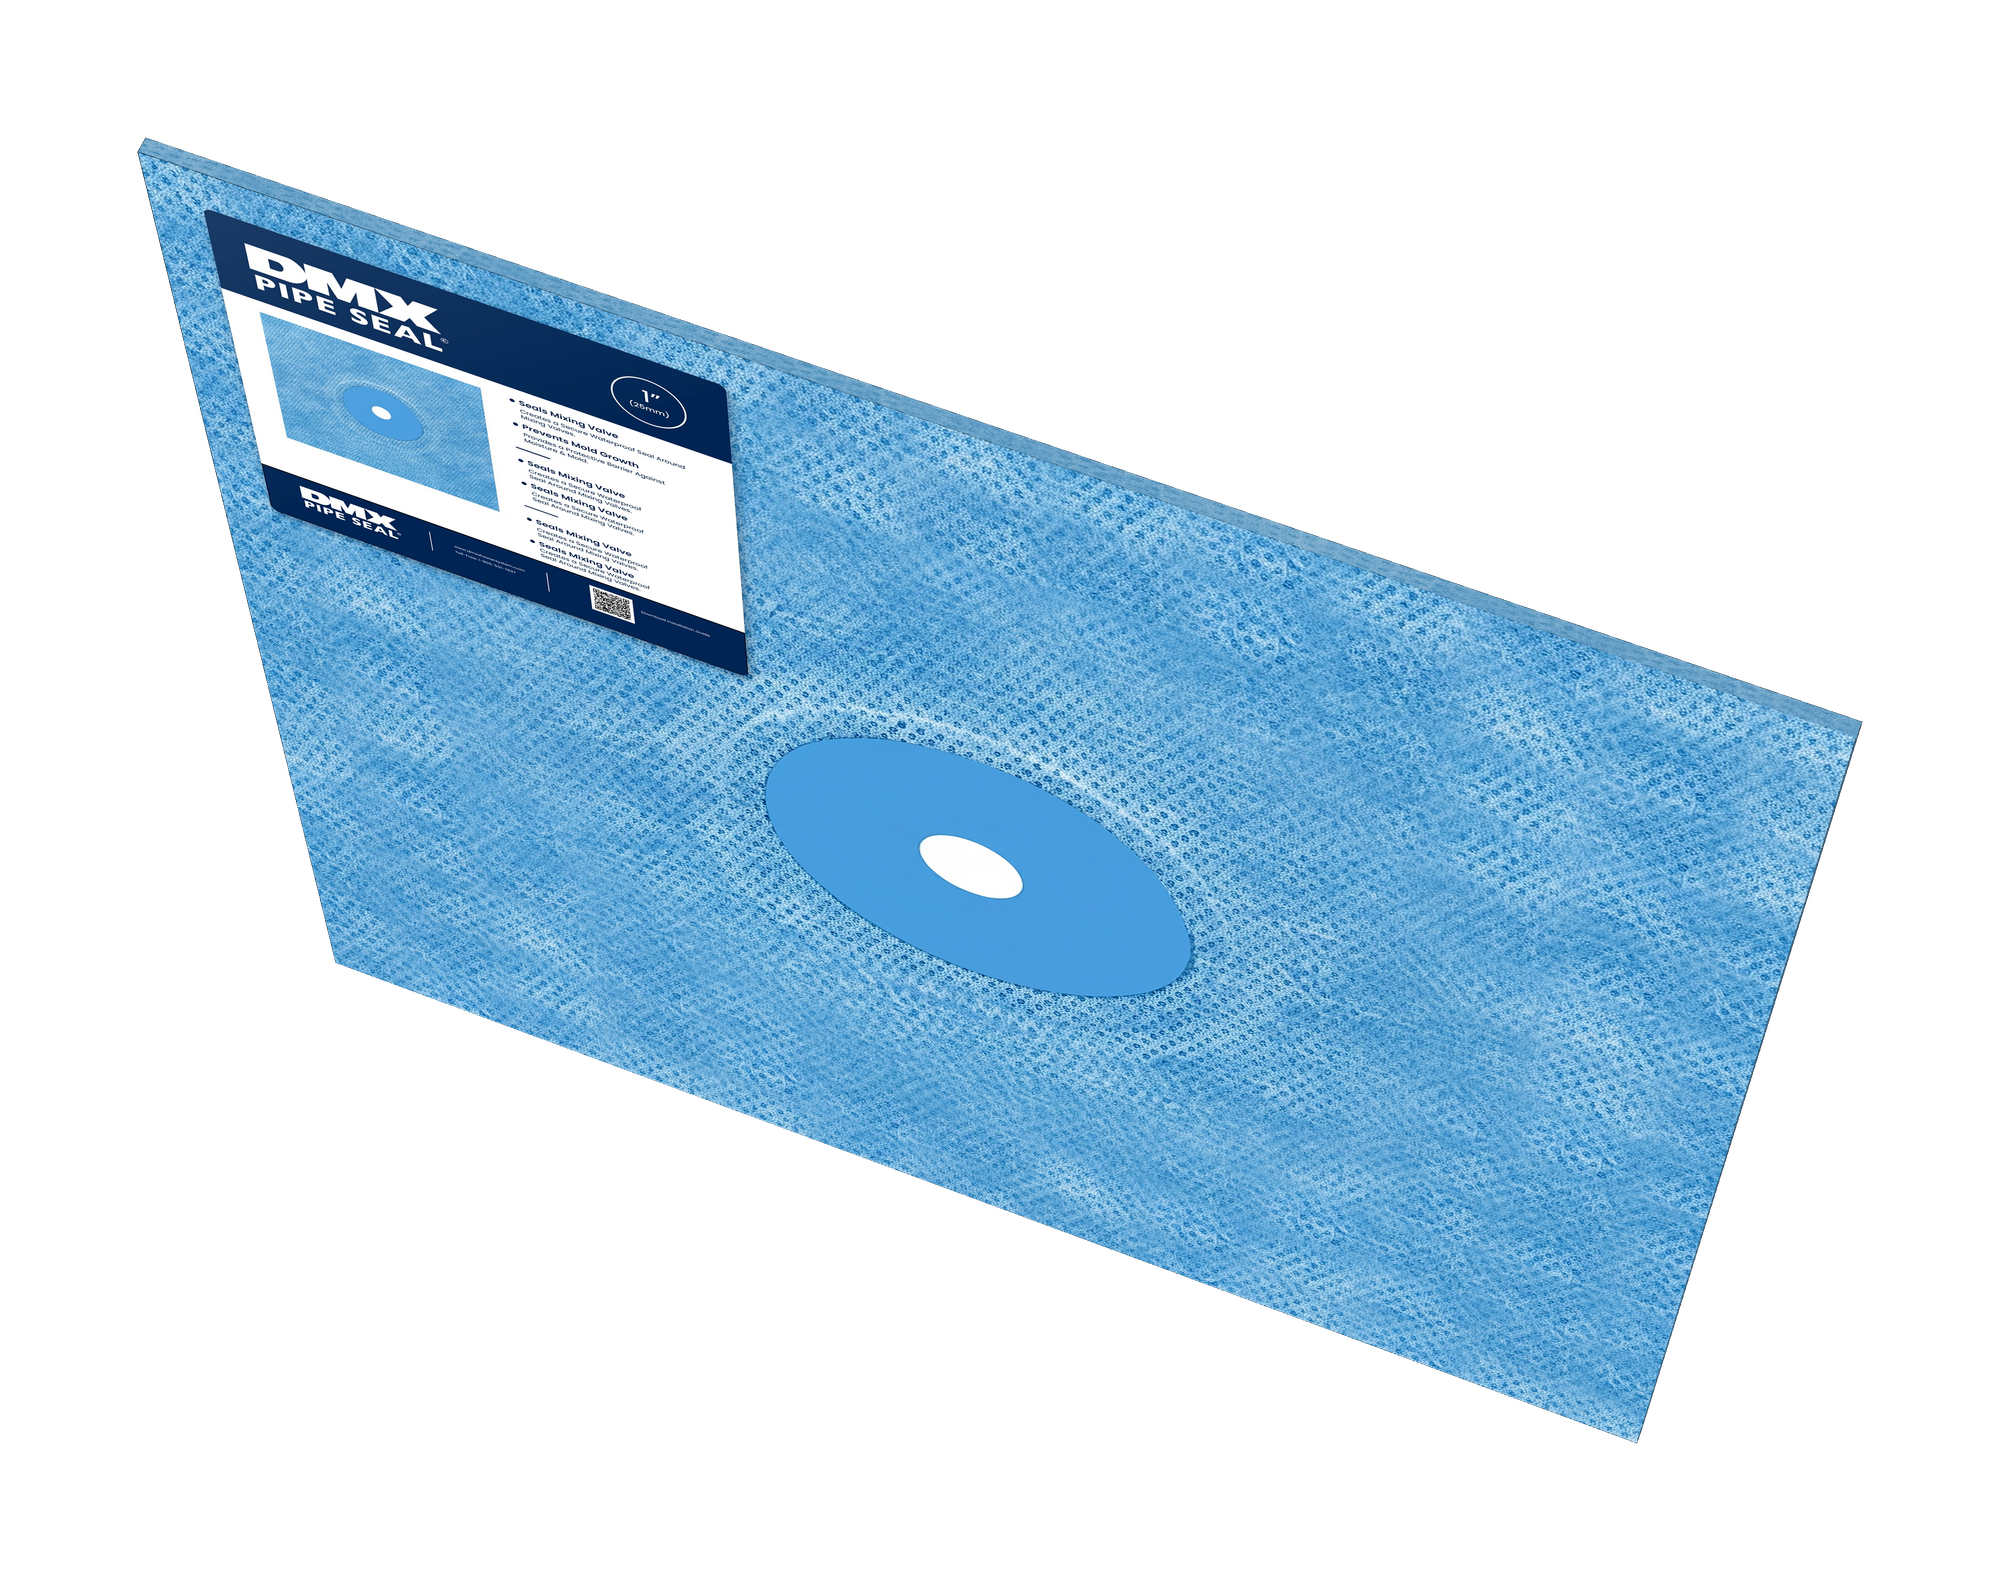
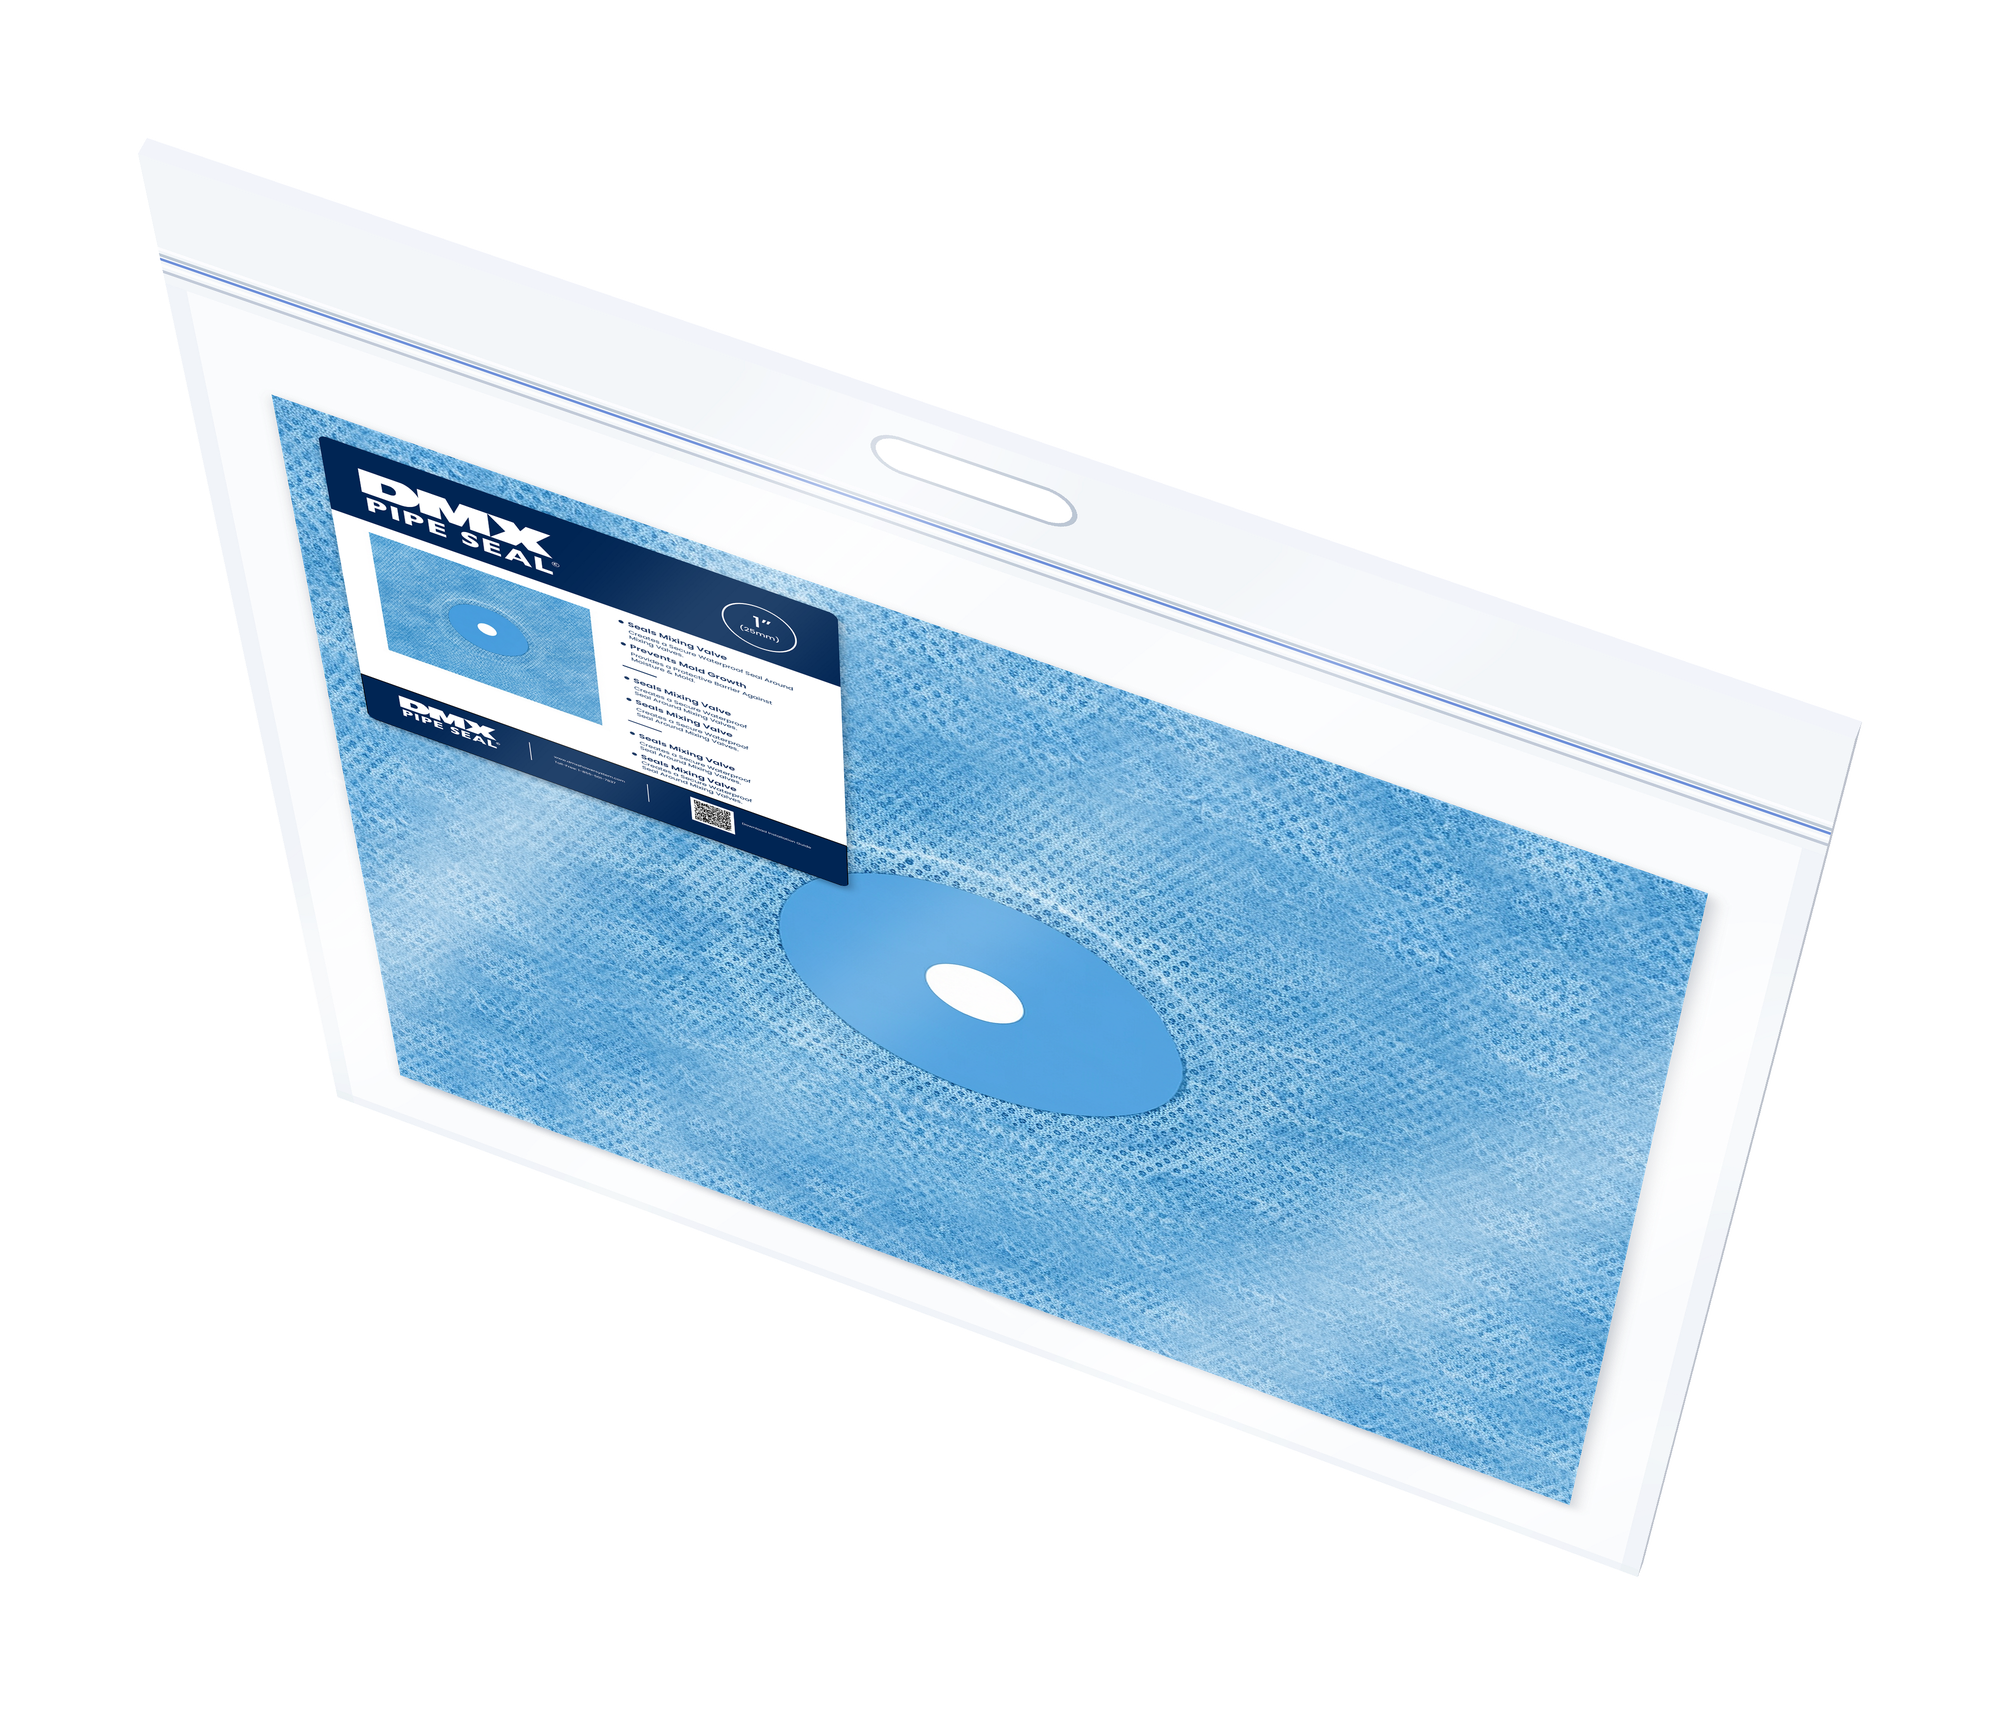
Pipe Seal: show it in a clear zip bag with the label on the bag
Claude-Session: https://claude.ai/code/session_01Ej89JjADeLsDe1MFxvXPsi

Changed region(s): [[0.062, 0.093, 0.93, 0.9298]]

diff --git a/index.html b/index.html
@@ -102,9 +102,9 @@
       <p class="label">View</p><div class="row views"></div>
       <p class="label">Download</p><div class="row dl"></div></div>
   </section>
-  <section class="card" data-slug="pipe-seal" data-w="2600" data-h="2600" data-d="26">
+  <section class="card" data-slug="pipe-seal" data-w="2600" data-h="3050" data-d="30" data-ext="png">
     <div class="stage" aria-label="3D mockup, DMX pipe seal with label"></div>
-    <div class="meta"><h2>Pipe Seal · 1″ (25 mm)</h2>
+    <div class="meta"><h2>Pipe Seal · 1″ (25 mm) · Zip Bag</h2>
       <p class="label">View</p><div class="row views"></div>
       <p class="label">Download</p><div class="row dl"></div></div>
   </section>
@@ -124,7 +124,7 @@
   var ICON = '<svg viewBox="0 0 24 24" fill="none" stroke="currentColor" stroke-width="2" stroke-linecap="round" stroke-linejoin="round" aria-hidden="true"><path d="M12 3v12"/><path d="m7 10 5 5 5-5"/><path d="M5 21h14"/></svg>';
 
   document.querySelectorAll('.card').forEach(function (card) {
-    var slug = card.dataset.slug, base = 'assets/' + slug + '/';
+    var slug = card.dataset.slug, base = 'assets/' + slug + '/', ext = '.' + (card.dataset.ext || 'jpg');
     var stage = card.querySelector('.stage');
     var aw = +card.dataset.w, ah = +card.dataset.h, ad = +card.dataset.d;
     var box = document.createElement('div'); box.className = 'box';
@@ -139,12 +139,12 @@
     }
     var o = base + 'original/' + slug;
     var F = {
-      front: face(o + '-front-back.jpg', 'Front panel'),
-      back: face(o + '-front-back.jpg', 'Back panel'),
-      right: face(o + '-left-right-sides.jpg', 'Right side', 'rgba(10,20,50,.22)'),
-      left: face(o + '-left-right-sides.jpg', 'Left side', 'rgba(10,20,50,.22)'),
-      top: face(o + '-top.jpg', 'Top panel', 'rgba(255,255,255,.1)'),
-      bottom: face(o + '-bottom.jpg', 'Bottom panel', 'rgba(10,20,50,.12)')
+      front: face(o + '-front-back' + ext, 'Front panel'),
+      back: face(o + '-front-back' + ext, 'Back panel'),
+      right: face(o + '-left-right-sides' + ext, 'Right side', 'rgba(10,20,50,.22)'),
+      left: face(o + '-left-right-sides' + ext, 'Left side', 'rgba(10,20,50,.22)'),
+      top: face(o + '-top' + ext, 'Top panel', 'rgba(255,255,255,.1)'),
+      bottom: face(o + '-bottom' + ext, 'Bottom panel', 'rgba(10,20,50,.12)')
     };
 
     // View buttons
@@ -163,7 +163,7 @@
     }
     var viewDl = link('This view (PNG)', '#', true);
     var mockups = VIEWS.map(function (v) { return 'mockup-' + slug + '-' + v.id + '.png'; });
-    var originals = ['front-back', 'left-right-sides', 'top', 'bottom'].map(function (n) { return 'original/' + slug + '-' + n + '.jpg'; });
+    var originals = ['front-back', 'left-right-sides', 'top', 'bottom'].map(function (n) { return 'original/' + slug + '-' + n + ext; });
     function zipButton(text, files, zipName) {
       var b = document.createElement('button'); b.type = 'button'; b.innerHTML = ICON; b.appendChild(document.createTextNode(text));
       b.addEventListener('click', function () {
